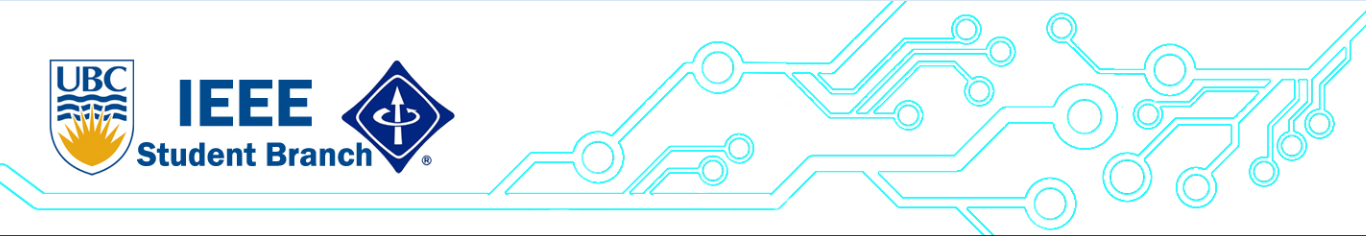
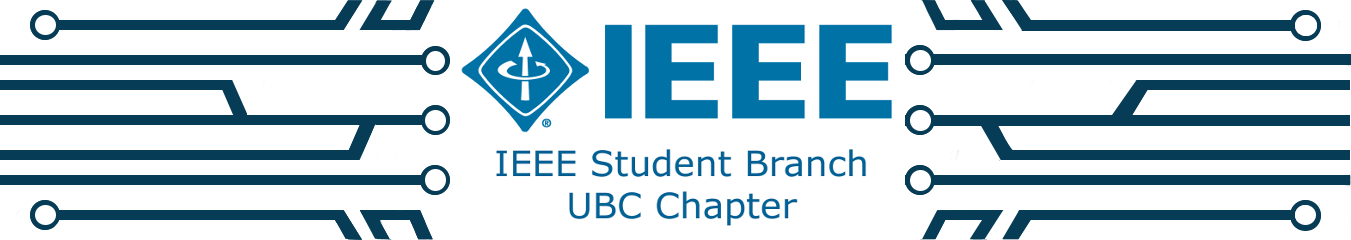
fixed 1.white line when collapsing 2. size of header image 3. border of the carousel 4. space on the left side of the accordin

diff --git a/index.html b/index.html
@@ -29,7 +29,7 @@
 <!-- NAVBAR
 ================================================== -->
   <body>
-    <div class = "header-image"><img src = "image/header.jpg"></div>
+    <div class = "header-image"><img src = "image/banner.png"></div>
    
     <div style="height: 42px;" id="nav-wrapper">
     <div id="nav" class="navbar affix-top" data-spy="affix" data-offset-top="240" data-offset-bottom="10">
@@ -203,7 +203,7 @@
                                         <h1>first event heading</h1>
                                         first event
                                     </div>
-                                    <div class="image" style="background: url(image/funny_cat.jpg);"></div>
+                                    <div class="image" style="background: url(image/funny_cat.jpg); "></div>
                                 </div>                                                     
                             </a>         
                         </h4>
@@ -258,8 +258,6 @@
                                         <h1>Third event</h1>
                                         sdfsdfsdfsdfsdfsdfdfffffffffffffffsdfsdfsdfsdfsdfsdfdfffffff
                                         <br> ffffffffsdfsdfsdfsdfsdfsdfdfffffffffffffffsdfsdfsdfsd
-                                        <br> fsdfsdfdfffffffffffffffsdfsdfsdfsdfsdfsdfdfffffffffffffffsdfsdfsdfsdfsdfsdfdfffffffffff
-                                        <br> ffffsdfsdfsdfsdfsdfsdfdfffffffffffffffsdfsdfsdfsdfsdfsdfdfffffffffffffff
                                     </div>
                                     <div class="image" style="background: url(image/banner.PNG);"></div>
                                 </div>
@@ -346,7 +344,7 @@
         <div class="row_calendar">	
         	<div class = "vertical_line"></div>
       		<iframe src="https://www.google.com/calendar/embed?src=fgp6mguc2ah7u6l2foh4gg7490%40group.calendar.google.com&ctz=America/Vancouver?nocache"
-            width="460" height="250" frameborder="0" scrolling="no"></iframe>
+            width="453" height="250" frameborder="0" scrolling="no"></iframe>
      	</div>
         
        </div><!-- /.container -->

diff --git a/bootstrap/dist/css/bootstrap.css b/bootstrap/dist/css/bootstrap.css
@@ -2001,6 +2001,7 @@ input[type="submit"].btn-block,input[type="reset"].btn-block,input[type="button"
 	overflow: hidden;
 	-webkit-transition: height 0.35s ease;
 	transition: height 0.35s ease;
+	opacity:0.5;
 }
 
 @font-face {
@@ -5551,7 +5552,7 @@ body.modal-open,.modal-open .navbar-fixed-top,.modal-open .navbar-fixed-bottom
 	margin-right: auto;
 	margin-left: auto;
 	border-style: solid;
-	border-width: 5px;
+	border-width: 8px;
 	border-color: #696969;
 }
 
@@ -6374,6 +6375,6 @@ th.visible-print,td.visible-print {
 	max-width: 100%;
 	line-height: 1;
 	margin: 0 auto;
-	height: 280px;
+	height: 100%;
 	width: 1700px;
 }

diff --git a/accordion.css b/accordion.css
@@ -1,6 +1,7 @@
 .bs-example
 {
     width: 100%;
+    margin-left: 1%;
 }
 
 .accordionEventDate
@@ -88,7 +89,7 @@
 {
     position:relative;
     float:left;
-    width:65%;
+    width:62.7%;
 }
 
 .bs-example hr
